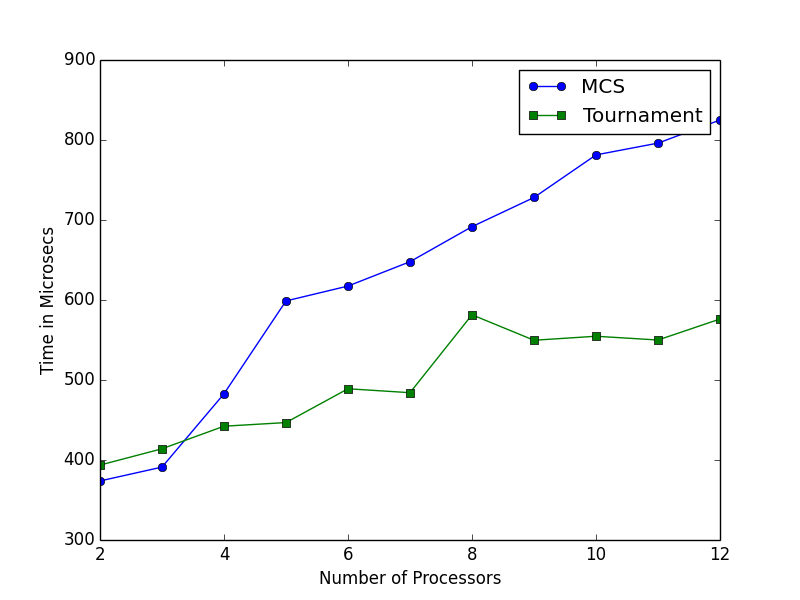
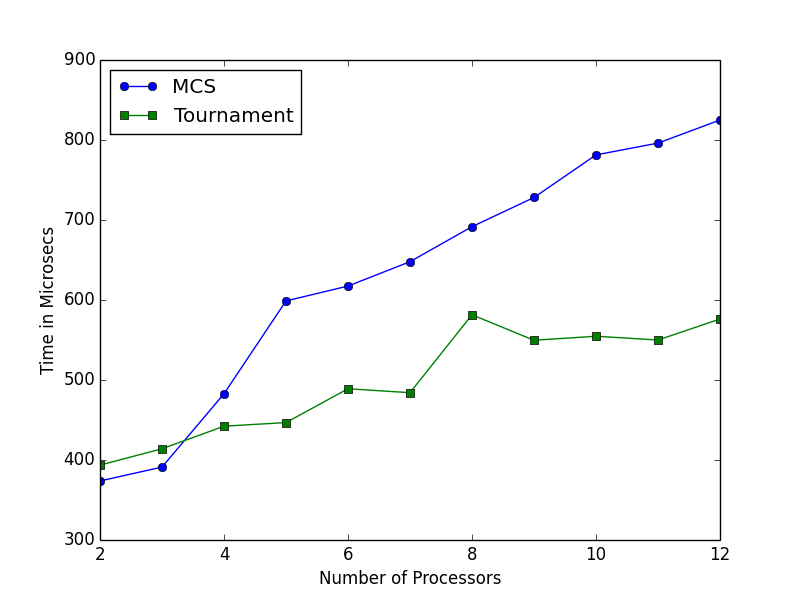
Adding tentative graph for combined

Changed region(s): [[0.625, 0.09, 0.9062, 0.24], [0.125, 0.09, 0.4062, 0.24]]

diff --git a/results/grapher.py b/results/grapher.py
@@ -22,11 +22,37 @@ for line in file:
         tournament_vals.append(float(m.groups()[1]))
 tournament_results = np.array(tournament_vals)
 
-x = np.arange(2.0, 13.0)
 
+"""
+Plotting MPI MCS and Tournament Barriers.
+"""
+
+x = np.arange(2.0, 13.0)
 plt.plot(x, mcs_results, "o-", label="MCS")
 plt.plot(x, tournament_results, "s-", label="Tournament")
 plt.xlabel("Number of Processors")
 plt.ylabel("Time in Microsecs")
-legend(('MCS','Tournament'))
+plt.legend(("MCS","Tournament"), loc="upper left")
 plt.savefig("MCS_Tourney.png")
+
+mpi_omp_vals = []
+file = open("mpi_omp_final.txt", "r")
+for line in file:
+    p = re.compile("([0-9]+): 12: ([0-9]+.[0-9]+)")
+    m = p.search(line)
+    if m:
+        mpi_omp_vals.append(float(m.groups()[1]))
+mpi_omp_results = np.array(mpi_omp_vals)
+
+"""
+Plotting MPI-OMP with 12 threads per process against MPI MCS and MPI Tournament.
+"""
+plt.cla()
+x = np.arange(2.0, 9.0)
+plt.plot(x, np.array(mcs_vals[0:7]), "o-", label="MCS")
+plt.plot(x, np.array(tournament_vals[0:7]), "s-", label="Tournament")
+plt.plot(x, mpi_omp_results, "^-", label="MPI OMP")
+plt.xlabel("Number of Processors")
+plt.ylabel("Time in Microsecs")
+plt.legend(("MCS", "Tournament", "MPI-OMP"), loc="upper left")
+plt.savefig("MPI_OMP.png")
